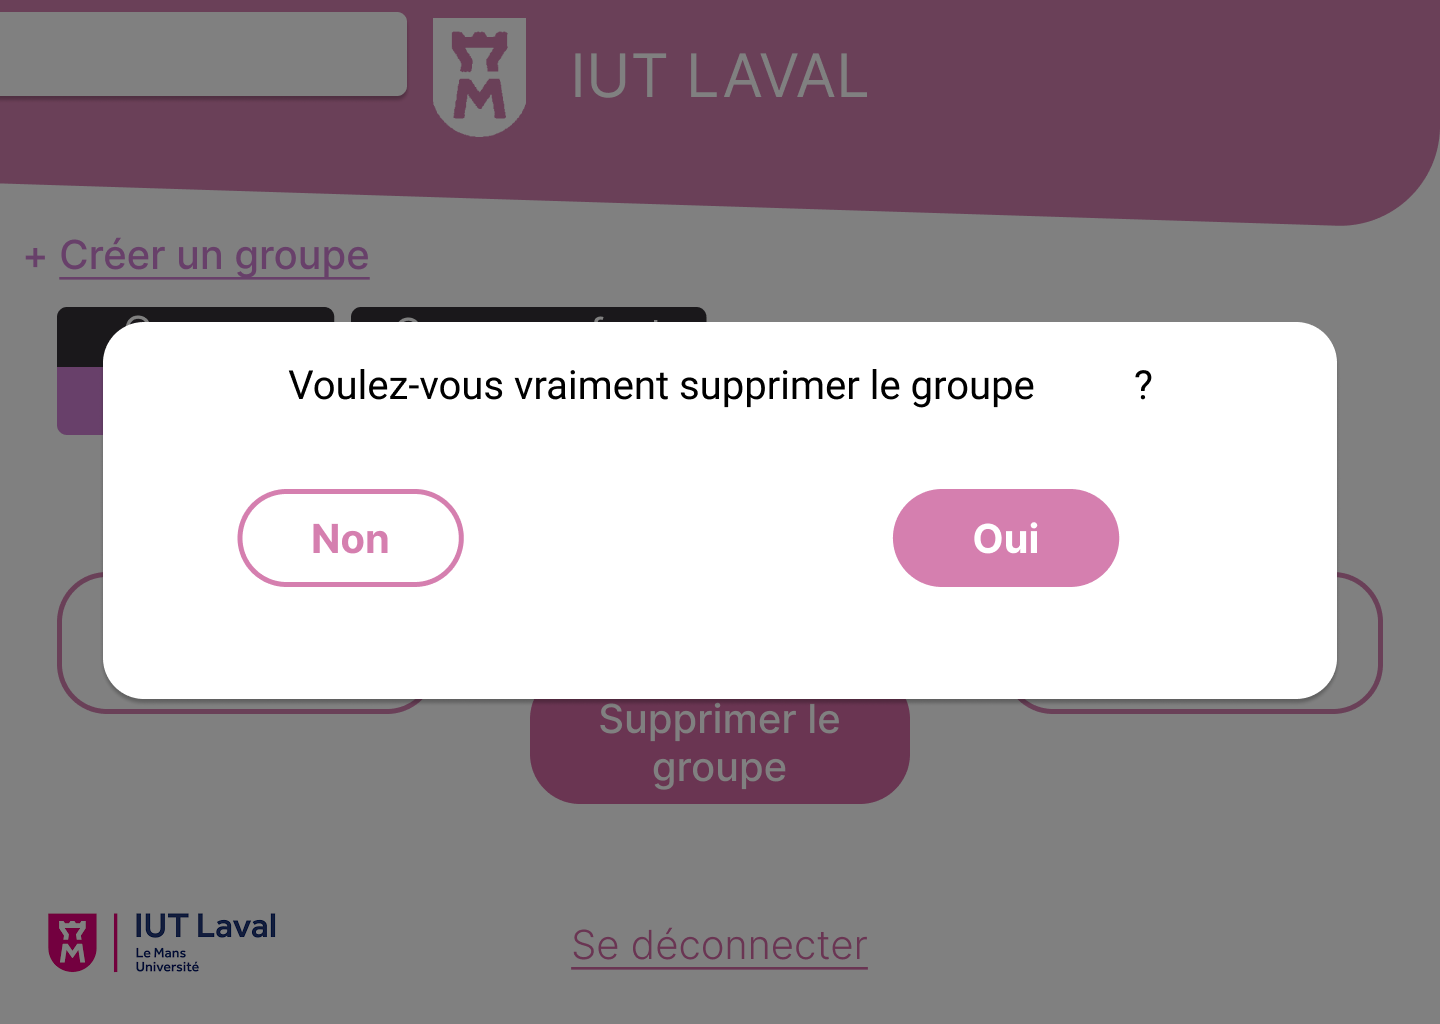
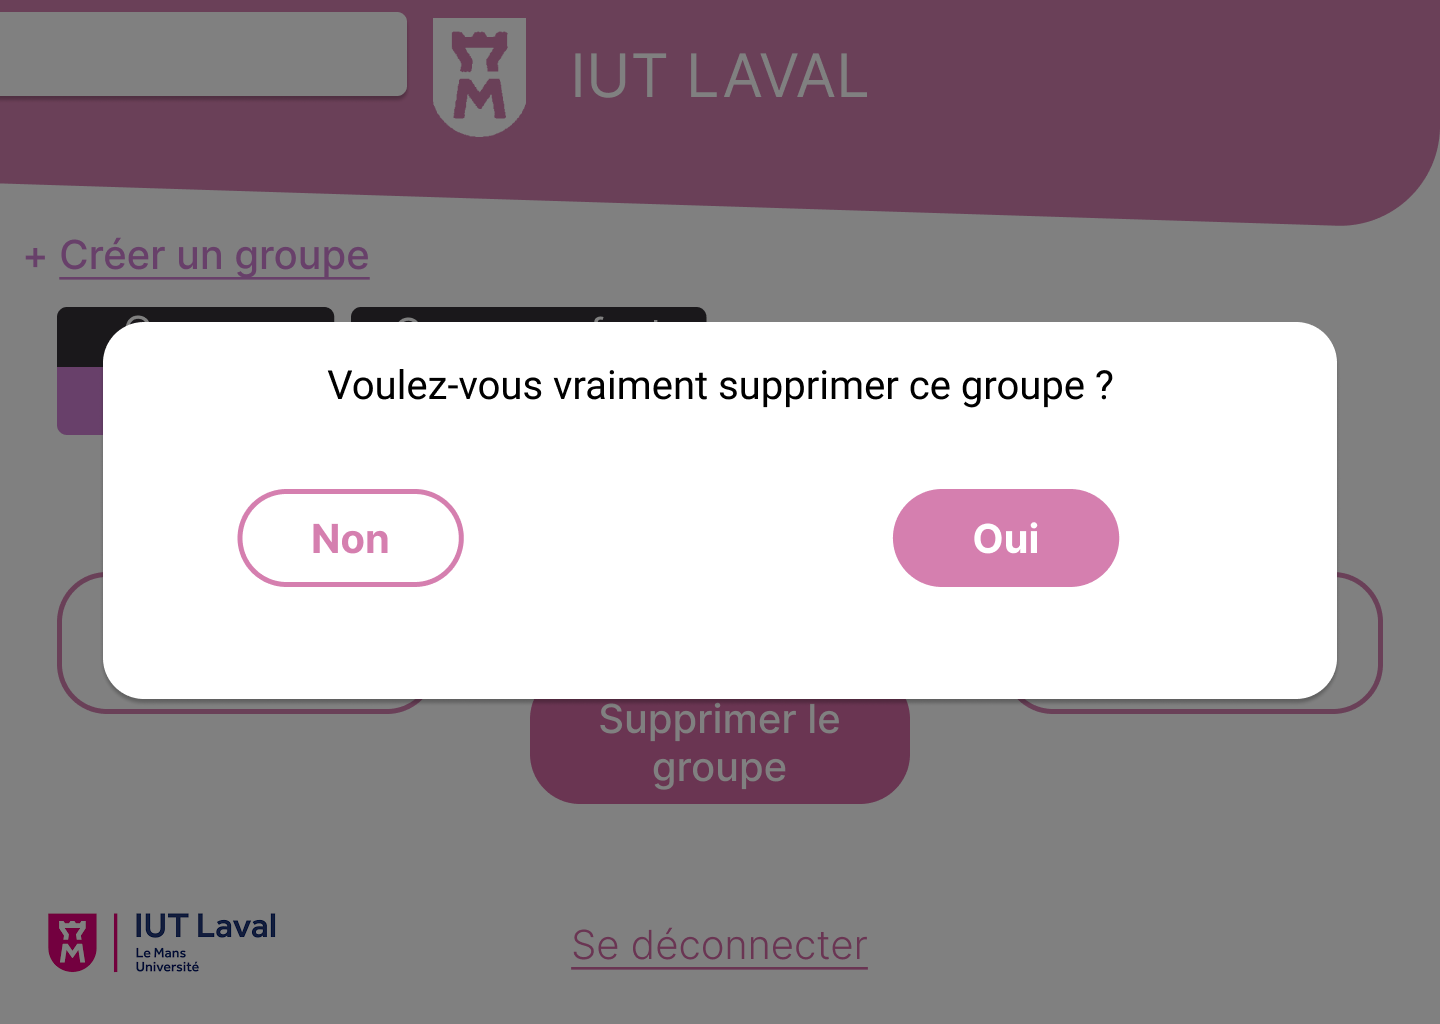
Correction pop up supprimer groupe

Changed region(s): [[0.2188, 0.3438, 0.75, 0.4062]]

diff --git a/SAE204/src/main/java/com/example/sae204/Controller/PopUpSuppressionController.java b/SAE204/src/main/java/com/example/sae204/Controller/PopUpSuppressionController.java
@@ -1,5 +1,6 @@
 package com.example.sae204.Controller;
 
+import com.example.sae204.Modele.DAO.DAO;
 import com.example.sae204.Modele.DAO.DAOGroupe;
 import javafx.event.ActionEvent;
 import javafx.fxml.FXML;
@@ -12,29 +13,36 @@ import java.sql.SQLException;
 import java.util.ResourceBundle;
 
 public class PopUpSuppressionController extends  Controller implements Initializable {
-    @FXML
-    private Label GroupeSupLab;
 
     @FXML
     private Button RetourButton;
 
     @FXML
     private Button ValiderButtonClick;
+    @FXML
+    private Label adressemaillabel, groupeSup;
 
     @FXML
     void onRetourButtonClick(ActionEvent event) {
-        SecretaireAccController.CurrentGroupeParent=GroupeSupLab.getText();
+        SecretaireAccController.CurrentGroupeParent=groupeSup.getText();
         GoToPage("SecretaireAcc.fxml","Acceuil secrétaire");
     }
 
     @FXML
     void onValiderButtonClick(ActionEvent event) throws SQLException, ClassNotFoundException {
-        DAOGroupe.RetirerGroupe(GroupeSupLab.getText());
+        DAOGroupe.RetirerGroupe(groupeSup.getText());
         GoToPage("SecretaireAcc.fxml","Acceuil secrétaire");
     }
 
     @Override
     public void initialize(URL url, ResourceBundle resourceBundle) {
-        GroupeSupLab.setText(SecretaireAccController.GroupeSupprimer);
+        String mail = "";
+        try {
+            mail = DAO.mail(ConnexionController.Harpege);
+        } catch (SQLException e) {
+            throw new RuntimeException(e);
+        }
+        adressemaillabel.setText(mail);
+        groupeSup.setText(SecretaireAccController.GroupeSupprimer);
     }
 }
